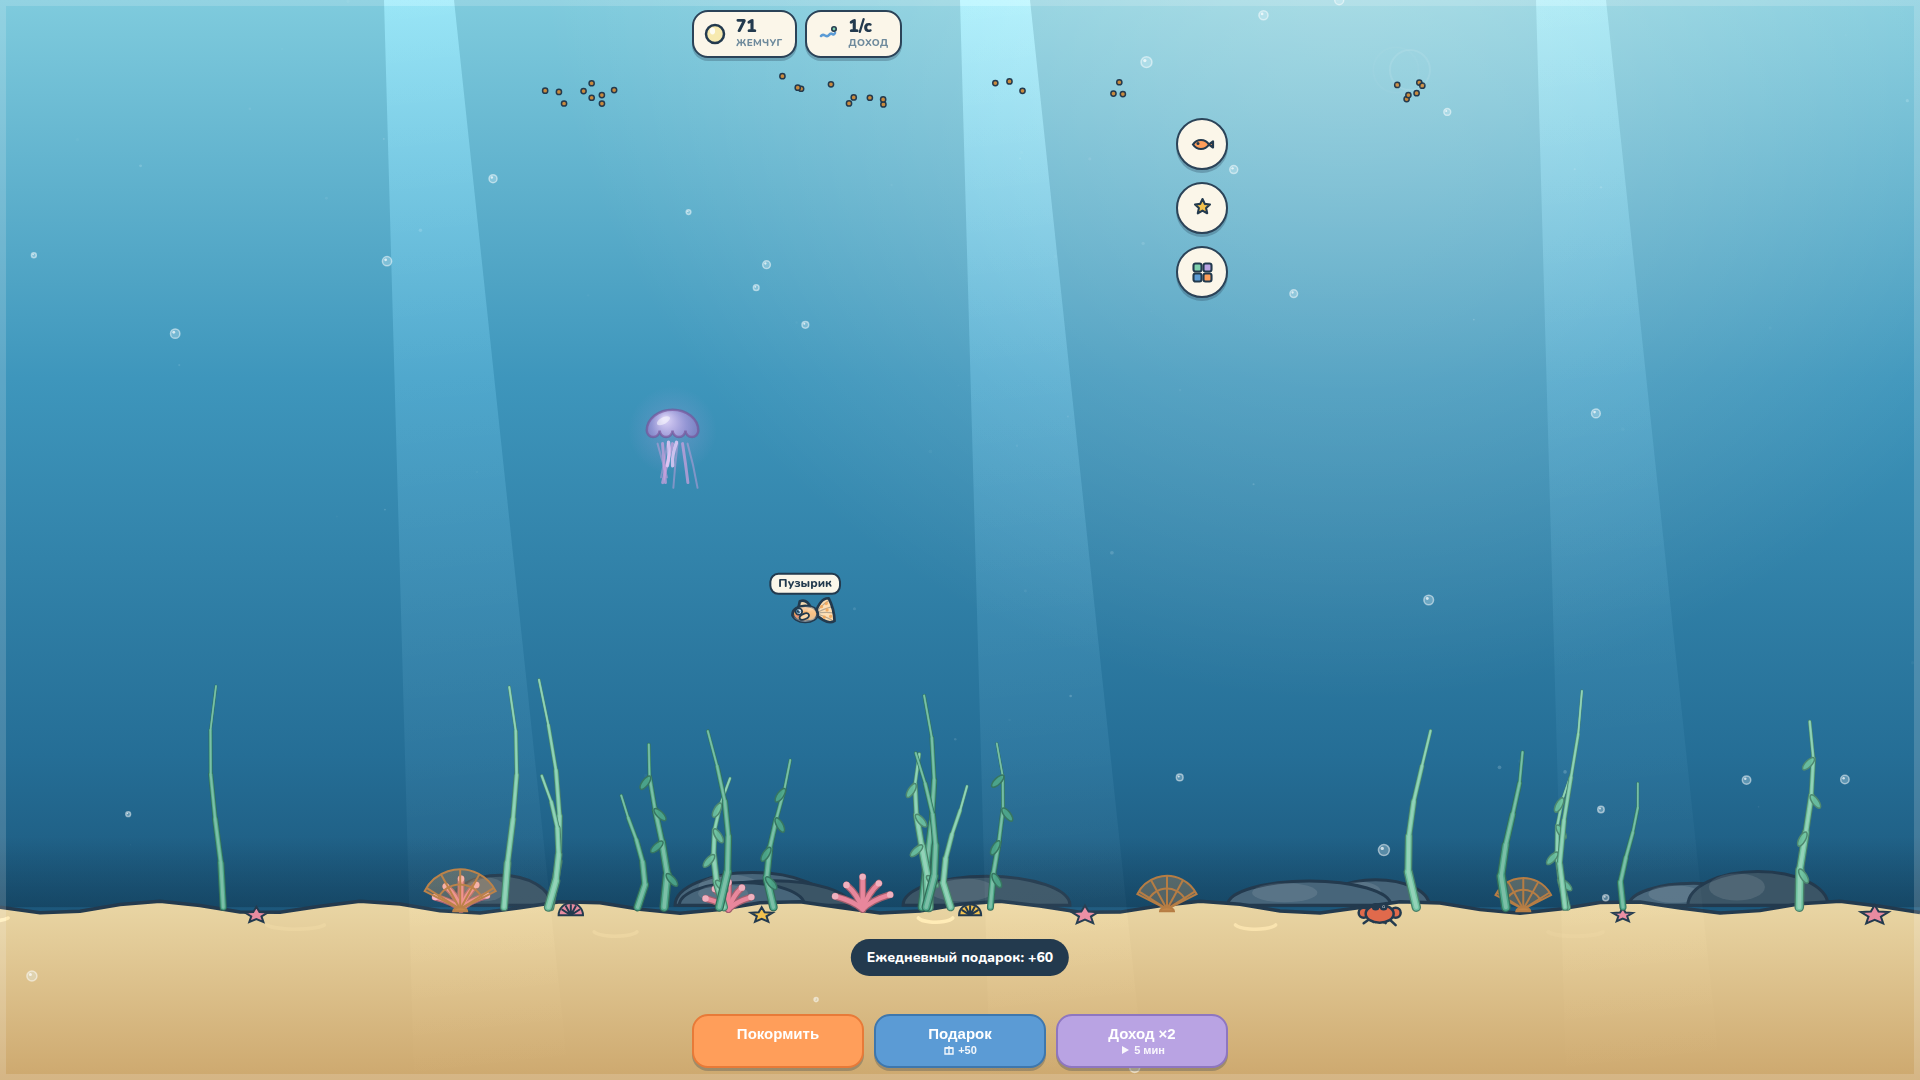
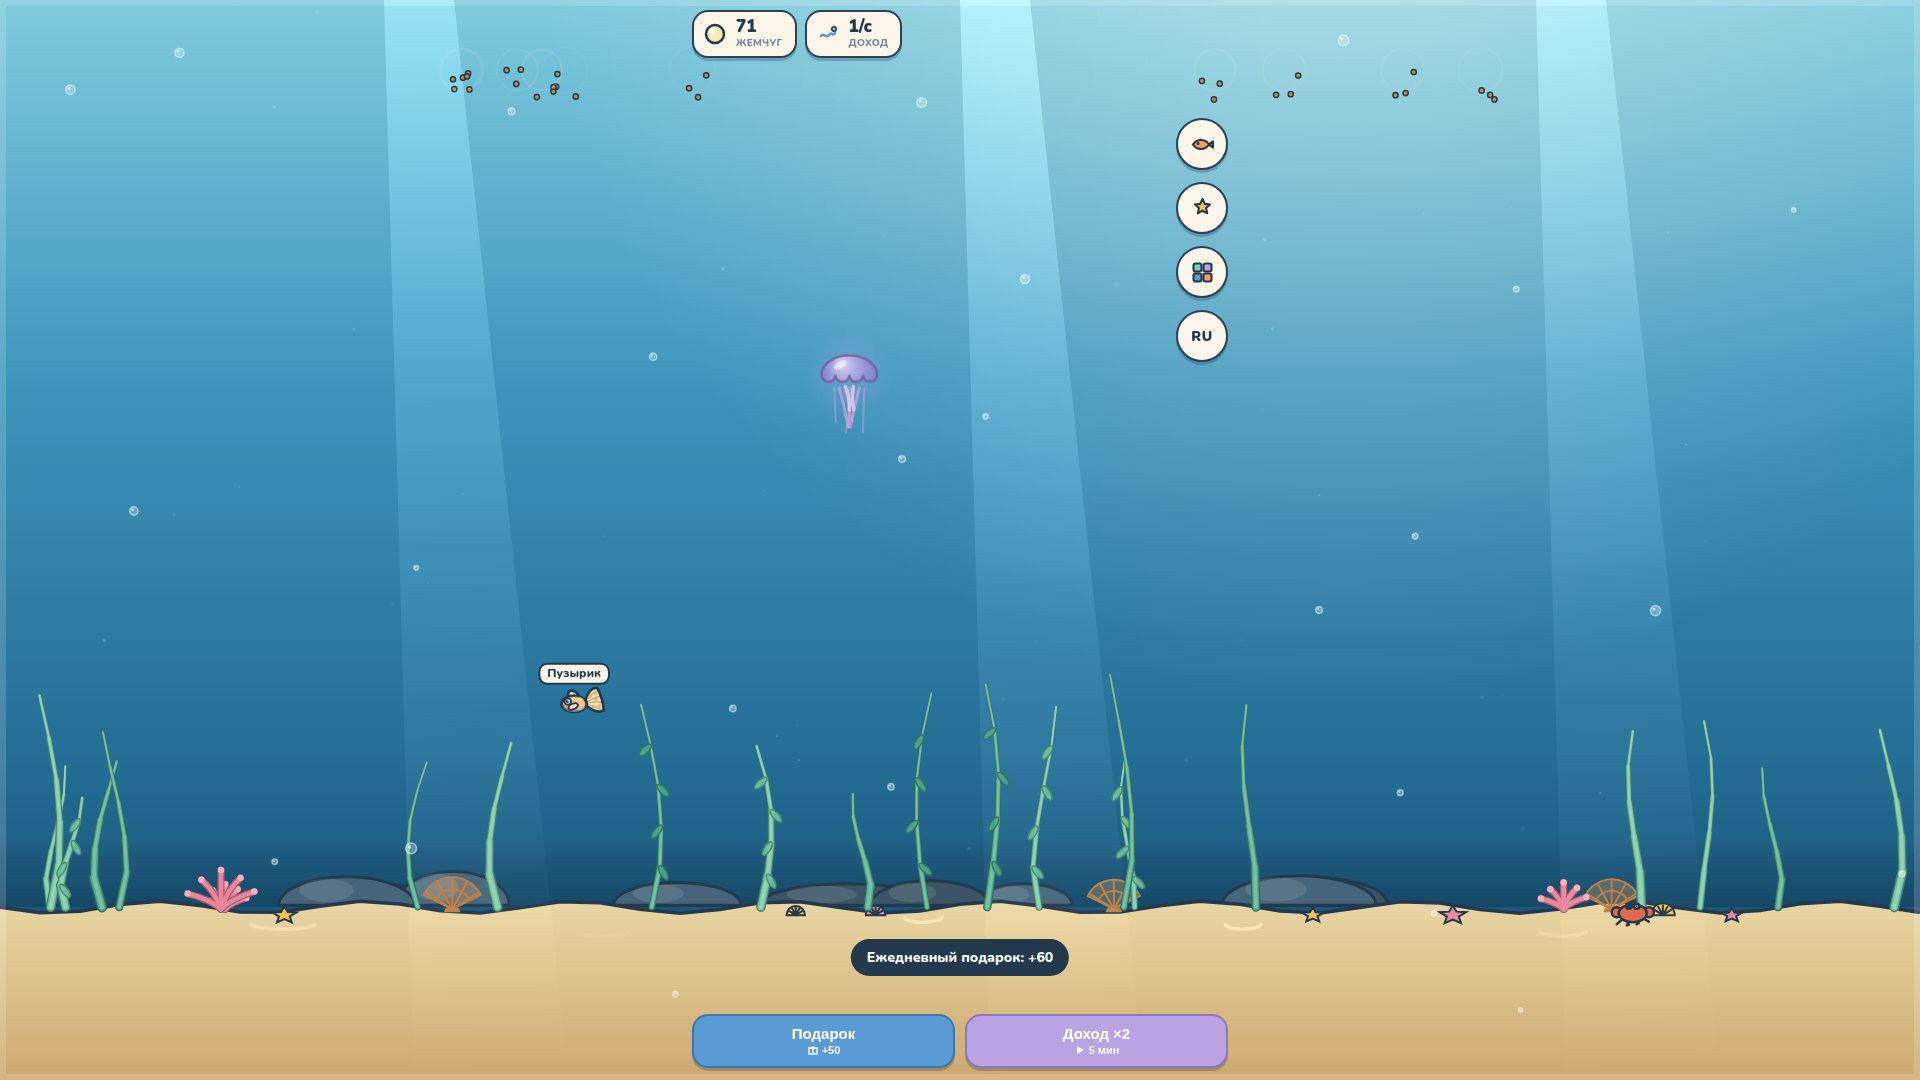
Переключатель языка RU/EN, музыка и уборка лишней кнопки
- кнопка языка в боковой панели: ручной выбор RU/EN поверх авто-детекта,
  сохраняется в сейве и переживает перезагрузку; html lang обновляется
- убрана кнопка «Покормить»: она дублировала тап по воде; новичку
  показывается подсказка «Тапни по воде, чтобы покормить рыбок»
- фоновая музыка: генеративный подводный эмбиент-луп ~27 с (ля-минор,
  72 BPM): пэд-аккорды Am–F–C–G, мягкий бас, «капельные» колокольчики
  с эхом и пузырьковые акценты; рендерится один раз из нот ZzFX,
  без аудиофайлов; нормализация от клиппинга
- тесты и генератор ассетов переведены с #tapBtn на тап по воде/__feed()
- пересобран zip и перегенерированы магазинные ассеты

Claude-Session: https://claude.ai/code/session_01E1W4bJFq3d3FdtAVHT6PQt

diff --git a/index.html b/index.html
@@ -50,6 +50,7 @@
         cursor:pointer;transition:transform .08s,box-shadow .08s;padding:0}
   .rbtn:active{transform:translateY(2px);box-shadow:0 1px 0 rgba(35,58,78,.28)}
   .rbtn svg{width:27px;height:27px;display:block}
+  .rbtn.lang{font-family:'Nunito',system-ui,sans-serif;font-weight:900;font-size:14px;letter-spacing:.5px;color:var(--ink)}
   .bottom{display:flex;gap:10px;pointer-events:auto}
   .abtn{flex:1;background:var(--paper);border:2.5px solid var(--line);border-radius:16px;padding:10px 8px;
         font-weight:900;font-size:15px;cursor:pointer;box-shadow:0 3px 0 rgba(35,58,78,.28);
@@ -117,7 +118,6 @@
   </div>
   <div class="spacer"></div>
   <div class="bottom">
-    <button class="abtn main" id="tapBtn"><span class="bt" id="tapT">Покормить</span></button>
     <button class="abtn blue" id="giftBtn"><span class="bt" id="giftT">Подарок</span><span class="bs"><svg viewBox="0 0 12 12"><path d="M2 4h8v6H2z" fill="none" stroke="#fff" stroke-width="1.4"/><path d="M6 2v8M2 4l4 0 4 0" stroke="#fff" stroke-width="1.4"/></svg><span id="giftS">+50</span></span></button>
     <button class="abtn lav" id="x2Btn"><span class="bt" id="x2T">Доход ×2</span><span class="bs"><svg viewBox="0 0 12 12"><path d="M3 2l7 4-7 4z" fill="#fff"/></svg><span id="x2S">5 мин</span></span></button>
   </div>
@@ -132,6 +132,7 @@
   <button class="rbtn" id="collBtn" aria-label="Коллекция">
     <svg viewBox="0 0 27 27"><rect x="4.5" y="4.5" width="8" height="8" rx="2" fill="#7FD1AE" stroke="#233A4E" stroke-width="2.1"/><rect x="14.5" y="4.5" width="8" height="8" rx="2" fill="#B9A3E3" stroke="#233A4E" stroke-width="2.1"/><rect x="4.5" y="14.5" width="8" height="8" rx="2" fill="#5B9BD5" stroke="#233A4E" stroke-width="2.1"/><rect x="14.5" y="14.5" width="8" height="8" rx="2" fill="#FF9E5A" stroke="#233A4E" stroke-width="2.1"/></svg>
   </button>
+  <button class="rbtn lang" id="langBtn" aria-label="Язык / Language">RU</button>
 </div>
 <div id="modal" class="hidden"><div class="sheet"><button id="mClose">×</button><div id="mTitle"></div><div id="mScroll"><div id="mBody"></div></div></div></div>
 <div id="toast"></div>
@@ -148,13 +149,19 @@ let ysdk=null, player=null, lb=null, saveT=0, booted=false;
 
 // ---------- i18n (авто-язык через SDK, урок модерации п.2.14) ----------
 function lang(){
+  try{ if(S && (S.lang==="ru"||S.lang==="en")) return S.lang; }catch(e){} // ручной выбор игрока
   try{ if(ysdk&&ysdk.environment&&ysdk.environment.i18n&&ysdk.environment.i18n.lang)
     return ysdk.environment.i18n.lang==="ru"?"ru":"en"; }catch(e){}
   return (navigator.language||"ru").slice(0,2)==="ru"?"ru":"en";
 }
+function toggleLang(){
+  S.lang = lang()==="ru" ? "en" : "ru";
+  document.documentElement.setAttribute("lang", S.lang);
+  refreshHud(); persist(true); sfx("tap");
+}
 const STR = {
   coins:{ru:"ЖЕМЧУГ",en:"PEARLS"}, income:{ru:"ДОХОД",en:"INCOME"},
-  feed:{ru:"Покормить",en:"Feed"},
+  tapHint:{ru:"Тапни по воде, чтобы покормить рыбок",en:"Tap the water to feed your fish"},
   gift:{ru:"Подарок",en:"Gift"},
   x2:{ru:"Доход ×2",en:"Income ×2"}, x2on:{ru:"×2 идёт",en:"×2 active"},
   need:{ru:"Не хватает жемчуга",en:"Not enough pearls"},
@@ -198,6 +205,7 @@ function fresh(){ return {
   feed:0, aer:0, plant:0,                   // уровни апгрейдов
   best:1,                                   // рекорд числа видов (лидерборд)
   x2Until:0, lastGift:0, lastDaily:"",      // таймеры rewarded / ежедневки
+  lang:null,                                // ручной выбор языка (null = авто)
   time:Date.now()
 };}
 let S = fresh();
@@ -261,13 +269,13 @@ function refreshHud(){
   $("ipsV").textContent   = fmt(ips())+"/"+(lang()==="ru"?"с":"s");
   $("coinsL").textContent = T("coins");
   $("ipsL").textContent   = T("income");
-  $("tapT").textContent   = T("feed");
   $("giftT").textContent  = T("gift");
   $("giftS").textContent  = "+"+fmt(giftAmt());
   const on=x2On();
   $("x2T").textContent    = on? T("x2on") : T("x2");
   $("x2S").textContent    = on? Math.ceil((S.x2Until-Date.now())/60000)+(lang()==="ru"?" мин":" min") : (lang()==="ru"?"5 мин":"5 min");
   $("x2Btn").classList.toggle("off", on);
+  $("langBtn").textContent = lang().toUpperCase();
   if(modalOpen) buildModal(modalOpen); // живое обновление цен в открытой панели
 }
 let toastT;
@@ -1075,17 +1083,20 @@ window.__feed = () => doFeed();
 function boot(raw){
   if(booted) return; booted=true;
   restore(raw);
+  document.documentElement.setAttribute("lang", lang());
   resize(); rebuildSwimmers(); refreshHud();
-  $("tapBtn").onclick   = ()=>doFeed();
   $("giftBtn").onclick  = claimGift;
   $("x2Btn").onclick    = claimX2;
   $("fishBtn").onclick  = ()=>openModal('fish');
   $("upBtn").onclick    = ()=>openModal('up');
   $("collBtn").onclick  = ()=>openModal('coll');
+  $("langBtn").onclick  = toggleLang;
   $("mClose").onclick   = closeModal;
   $("modal").addEventListener('pointerdown', e=>{ if(e.target.id==='modal') closeModal(); });
   // тап по воде = кормление в точке касания
   cv.addEventListener('pointerdown', e=>{ if(modalOpen) return; doFeed(e.clientX); });
+  // подсказка новичку: кормление — это тап по воде (кнопки «Покормить» нет)
+  if(S.fish.length===1 && S.coins<60) setTimeout(()=>toast(T("tapHint")), 2600);
   checkDaily();
   startMusic();
   setInterval(()=>refreshHud(), 1000); // обновляет таймер ×2 и цены

diff --git a/sfx.js b/sfx.js
@@ -92,17 +92,41 @@ function sfx(name){ try{ zzfx(...SFX[name]); }catch(e){} }
 // ---------- GAME: короткий эмбиент-луп (2 пэда внахлёст, бесшовно зациклен) ----------
 // Подбери frequency двух нот под тональность игры (терция/квинта друг от друга).
 let musicSrc=null;
+// Фоновая музыка — генеративный подводный эмбиент-луп (~27 c, ля-минор, 72 BPM):
+// пэд-аккорды Am–F–C–G, мягкий бас и редкие «капельные» колокольчики с эхом.
+// Композиция один раз рендерится в буфер из нот ZzFX и крутится бесшовным лупом.
+const NOTE_HZ = m => 440*Math.pow(2,(m-69)/12); // midi -> Гц
+function mixInto(mix, samples, offset, gain){
+  for(let i=0;i<samples.length;i++){ const j=offset+i; if(j<mix.length) mix[j]+=samples[i]*gain; }
+}
+function buildSong(){
+  const sr=audioDefaultSampleRate, beat=60/72, BEATS=32;
+  const mix=new Float32Array(Math.round(BEATS*beat*sr));
+  const at=(b,arr,gain)=>mixInto(mix,arr,Math.round(b*beat*sr),gain);
+  // пэды по 4 доли: Am — F — C — G (два круга)
+  const pads=[[45,48,52],[41,45,48],[48,52,55],[43,47,50]];
+  for(let bar=0;bar<8;bar++){
+    const ch=pads[bar%4];
+    ch.forEach((m,i)=> at(bar*4, zzfxG(.5,0,NOTE_HZ(m),.9,beat*2.8,1.4,0,1,0,0,0,0,0,0,0,0,0,.7,.12), .16-i*.02));
+    at(bar*4, zzfxG(.55,0,NOTE_HZ(ch[0]-12),.08,beat*1.6,.6,1,1.2,0,0,0,0,0,0,0,0,0,.7,.08), .17); // мягкий бас
+  }
+  // редкая «капельная» мелодия пентатоникой ля-минора, с эхом — подводное настроение
+  const mel=[[0,76,2],[3,74,1],[4,72,2],[7,69,1],
+             [8,74,2],[11,72,1],[12,69,3],
+             [16,76,2],[19,79,1],[20,81,2],[23,79,1],
+             [24,76,2],[26,74,1],[27,72,1],[28,69,4]];
+  mel.forEach(p=> at(p[0], zzfxG(.5,0,NOTE_HZ(p[1]),.02,beat*p[2]*.4,.9,0,1.5,0,0,0,0,0,0,0,0,.15,.55,.12), .13));
+  // пузырьковый акцент раз в круг
+  at(14, zzfxG(.4,0,NOTE_HZ(88),.01,.03,.3,0,2,6,0,0,0,0,0,0,0,.12,.5,.05), .07);
+  at(30, zzfxG(.4,0,NOTE_HZ(86),.01,.03,.3,0,2,6,0,0,0,0,0,0,0,.12,.5,.05), .07);
+  // нормализация с запасом от клиппинга
+  let peak=0; for(let i=0;i<mix.length;i++){ const a=Math.abs(mix[i]); if(a>peak) peak=a; }
+  if(peak>0){ const k=.8/peak; for(let i=0;i<mix.length;i++) mix[i]*=k; }
+  return mix;
+}
 function startMusic(){
   if(musicSrc) return;
   const ctx=ensureAudio(); if(!ctx) return;
-  try{
-    // GAME: спокойный подводный эмбиент — тёплая мажорная терция (A2 + C#3), мягкая атака
-    const a=zzfxG(.24,0,110,1.2,4,4,0,1,0,0,0,0,0,0,0,0,.35,.9,1);   // низкий пэд (A2)
-    const b=zzfxG(.16,0,138.6,1.2,4,4,0,1,0,0,0,0,0,0,0,0,.35,.85,1); // тёплая терция сверху (C#3)
-    const len=Math.max(a.length,b.length);
-    const mix=new Float32Array(len);
-    for(let i=0;i<len;i++) mix[i]=(a[i]||0)+(b[i]||0);
-    musicSrc=playBuffer(mix, .35, true);
-  }catch(e){}
+  try{ musicSrc=playBuffer(buildSong(), .38, true); }catch(e){}
 }
 function stopMusic(){ if(musicSrc){ try{ musicSrc.stop(); }catch(e){} musicSrc=null; } }
